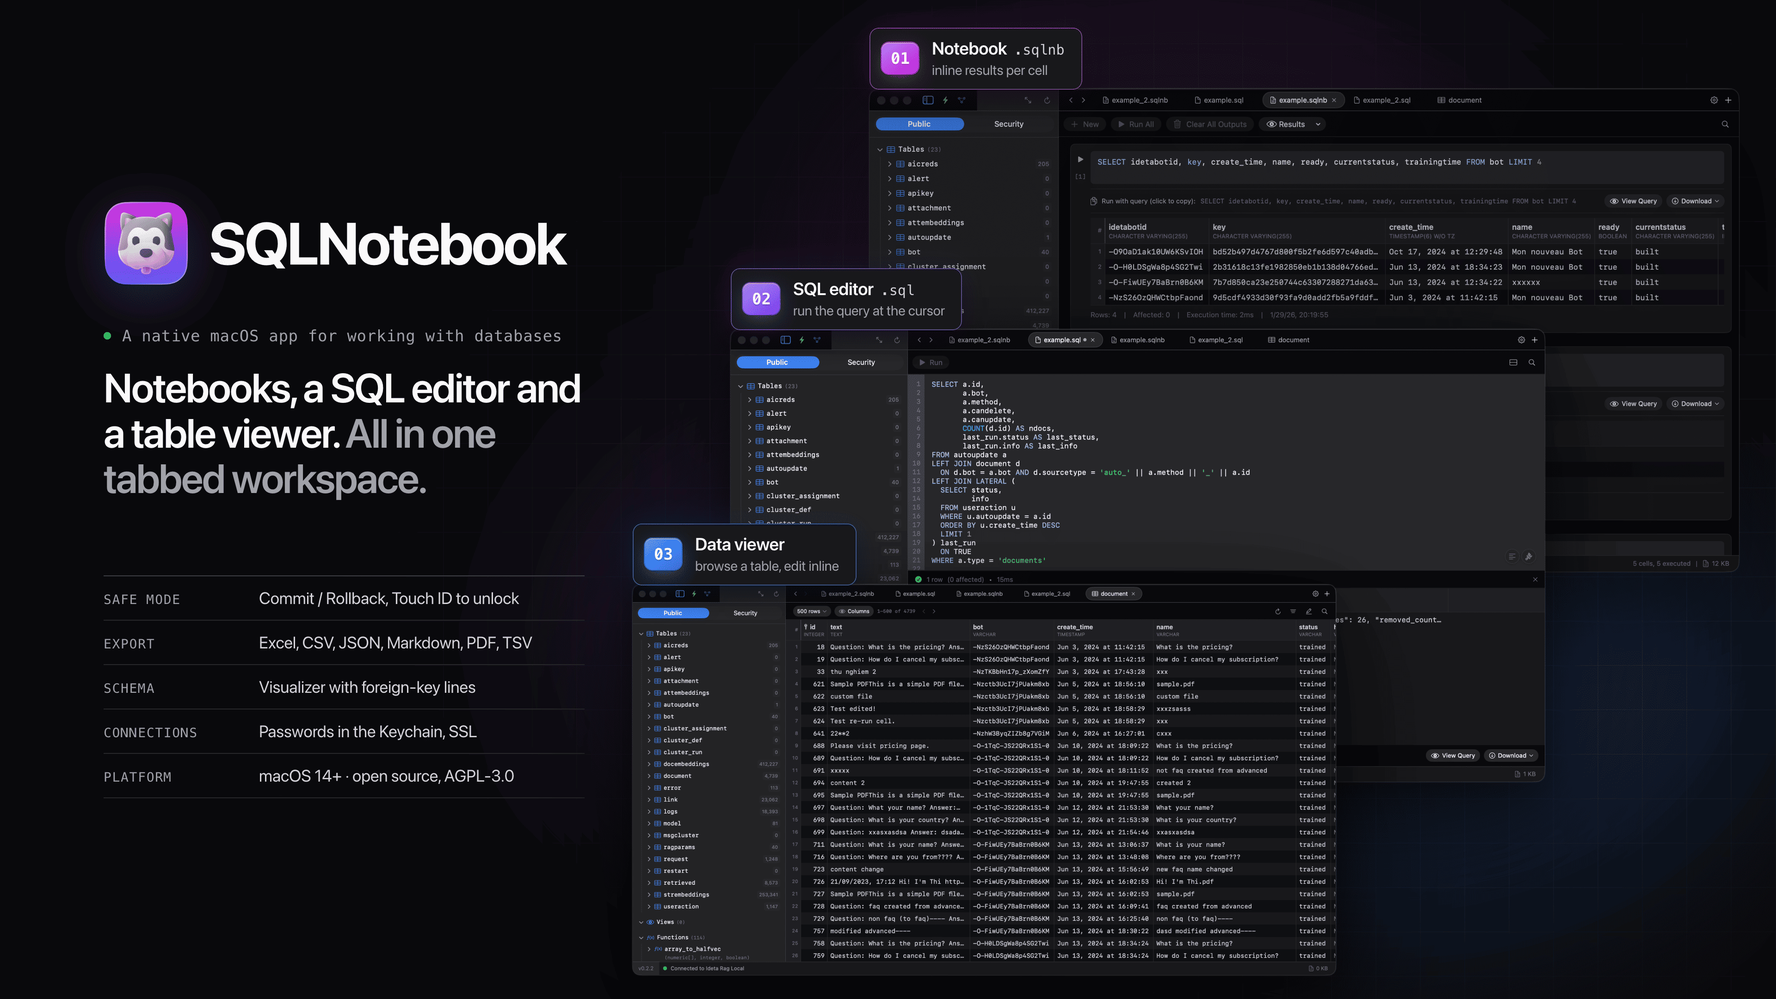
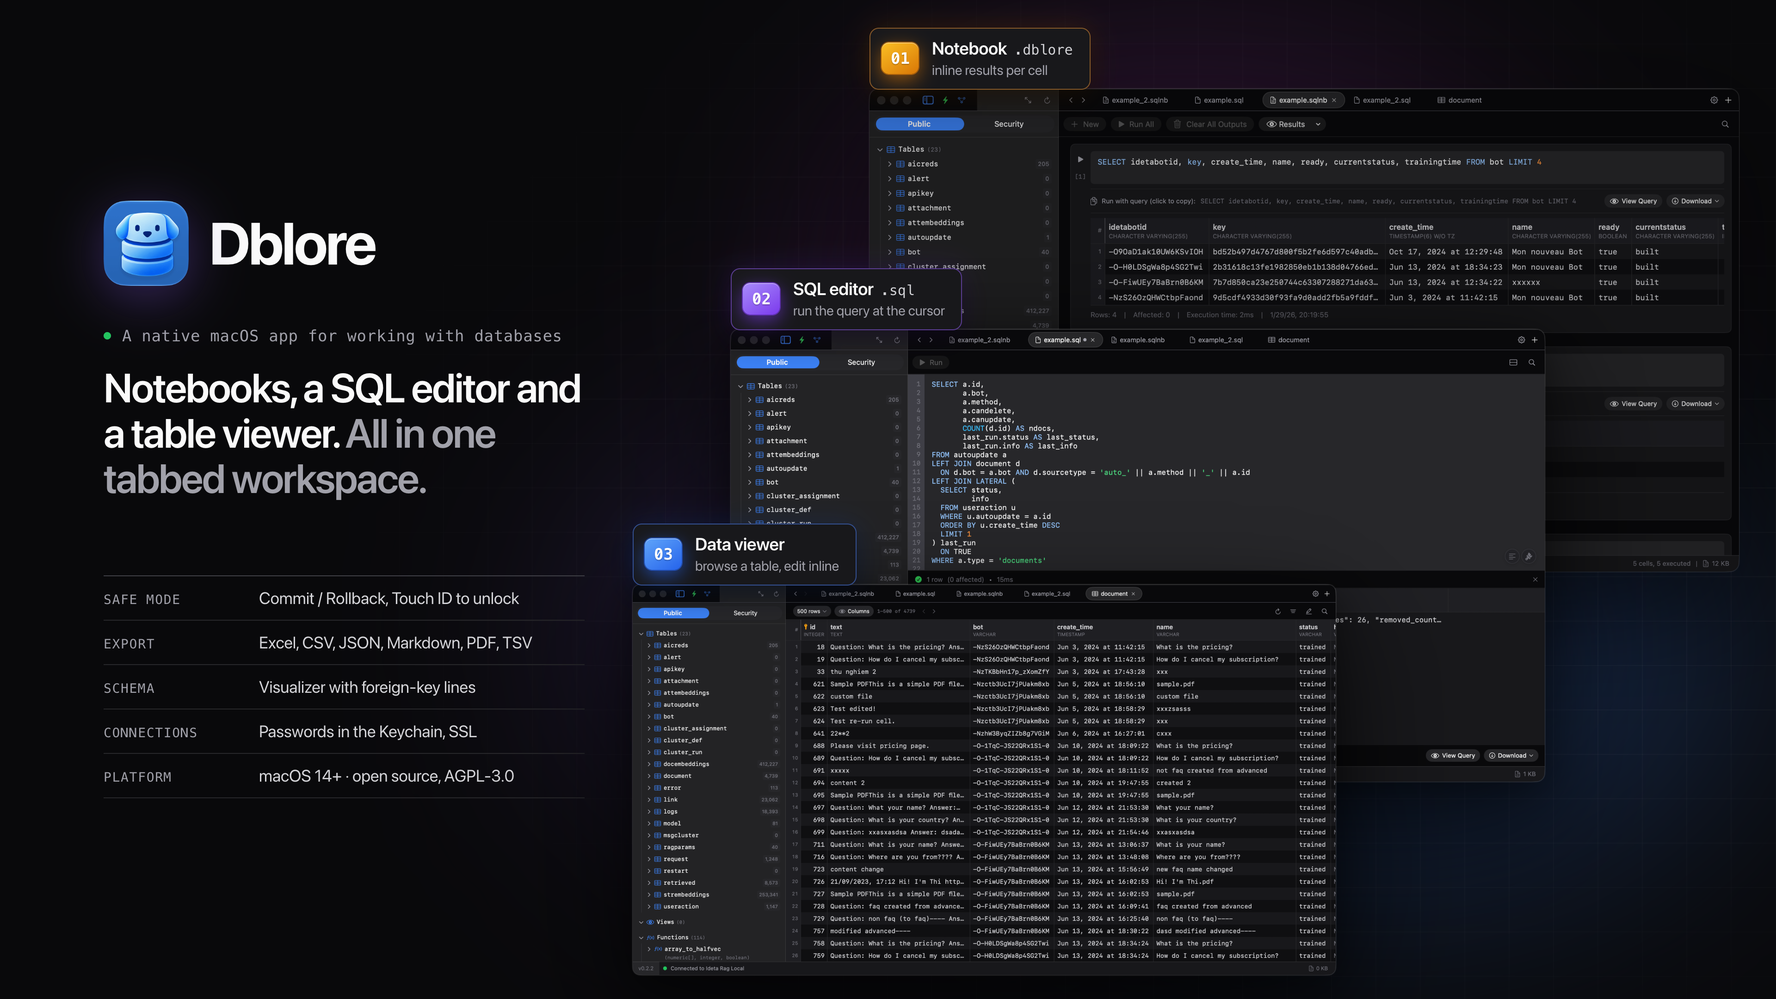
docs(rename): phase 3/3 rename docs and appcast to Dblore

diff --git a/.coding-friend/skills/cf-ship-custom/SKILL.md b/.coding-friend/skills/cf-ship-custom/SKILL.md
@@ -1,10 +1,10 @@
 ## Before
 
-This is a **version bump + changelog + tag** operation for SQLNotebook, the macOS app. Run these steps BEFORE the standard cf-ship workflow.
+This is a **version bump + changelog + tag** operation for Dblore, the macOS app. Run these steps BEFORE the standard cf-ship workflow.
 
 **Args** (optional): `[patch|minor|major]`
 
-SQLNotebook ships stable releases only: tags are always `vX.Y.Z` = `MARKETING_VERSION`. A release has two outputs: the **next file version** (what `bump.sh` writes, or `unchanged`) and the **next tag**.
+Dblore ships stable releases only: tags are always `vX.Y.Z` = `MARKETING_VERSION`. A release has two outputs: the **next file version** (what `bump.sh` writes, or `unchanged`) and the **next tag**.
 
 | The user says                 | You run               | Latest tag -> file / tag                               |
 | ----------------------------- | --------------------- | ------------------------------------------------------ |
@@ -13,7 +13,7 @@ SQLNotebook ships stable releases only: tags are always `vX.Y.Z` = `MARKETING_VE
 
 `bump-info.sh` computes this for you under "Next version" as two lines, `Next file version` and `Next tag`. Read them and use them verbatim. Never compute a version by hand.
 
-SQLNotebook has **one** version, in one file: `MARKETING_VERSION` (and the build number `CURRENT_PROJECT_VERSION`) in `SQLNotebook.xcodeproj/project.pbxproj`, identical across every build configuration. Below, `<tag>` means the `Next tag` line (for example `v0.1.1`) and `<tag version>` the same string without the leading `v` (`0.1.1`).
+Dblore has **one** version, in one file: `MARKETING_VERSION` (and the build number `CURRENT_PROJECT_VERSION`) in `Dblore.xcodeproj/project.pbxproj`, identical across every build configuration. Below, `<tag>` means the `Next tag` line (for example `v0.1.1`) and `<tag version>` the same string without the leading `v` (`0.1.1`).
 
 ### Step B1: Get bump context
 
@@ -49,8 +49,8 @@ Only in State `bump`. An explicit level from the user wins. Otherwise decide fro
 Commits under "Excluded" (touching no bump-relevant path: `docs/`, `.github/`, `.coding-friend/`, root `*.md`, root `appcast.xml`, ...; this includes CI's `chore(release): appcast vX.Y.Z` commits) and under "Excluded by scope" (`(website)` / `(landing)` / `(docs)`) never count. For "Excluded by scope", judge each: count it only if it is genuinely an app change that was mis-scoped.
 
 - **PATCH** (x.y.Z), the default, and almost always the answer. Bug fixes, UX polish, performance, refinements of existing behaviour, **and ordinary new features**: a new setting or toggle, a new menu item or shortcut, a new export format, a new option on an existing dialog, a new column in the results grid, an improvement to an existing panel. Several such features in one release are still PATCH.
-- **MINOR** (x.Y.0) only for a **milestone**: a whole new area of the app that changes what SQLNotebook is for, such as support for a new database engine, a new kind of document or tab, or a new workspace-level tool on the scale of the schema visualizer. A single feature, however useful, is not a milestone. If you have to argue for MINOR, it is PATCH.
-- **MAJOR** (X.0.0) only for a change that breaks compatibility of `.sqlnb` notebook files or saved connection/config data users depend on. While the app is pre-1.0, MAJOR is reserved: use MINOR instead.
+- **MINOR** (x.Y.0) only for a **milestone**: a whole new area of the app that changes what Dblore is for, such as support for a new database engine, a new kind of document or tab, or a new workspace-level tool on the scale of the schema visualizer. A single feature, however useful, is not a milestone. If you have to argue for MINOR, it is PATCH.
+- **MAJOR** (X.0.0) only for a change that breaks compatibility of `.dblore` notebook files or saved connection/config data users depend on. While the app is pre-1.0, MAJOR is reserved: use MINOR instead.
 
 When in doubt, choose PATCH. Never pick MINOR two releases in a row on your own judgement: if the latest tag was itself a minor bump (`X.Y.0`), this one is PATCH unless the user asked for `minor`.
 
@@ -64,7 +64,7 @@ Only when `Next file version` is a version, i.e. only in State `bump`. When it s
 bash .coding-friend/skills/cf-ship-custom/scripts/bump.sh <Next file version>
 ```
 
-It rewrites `SQLNotebook.xcodeproj/project.pbxproj` only: `MARKETING_VERSION` -> `<Next file version>` and `CURRENT_PROJECT_VERSION` -> max + 1 in every build configuration, then verifies they agree. It accepts only `X.Y.Z`: never pass the tag.
+It rewrites `Dblore.xcodeproj/project.pbxproj` only: `MARKETING_VERSION` -> `<Next file version>` and `CURRENT_PROJECT_VERSION` -> max + 1 in every build configuration, then verifies they agree. It accepts only `X.Y.Z`: never pass the tag.
 
 ### Step B4: Update `CHANGELOG.md`
 
@@ -94,10 +94,10 @@ Run all of these. Do not commit without them.
 
 ```bash
 # BUILD
-xcodebuild build -scheme SQLNotebook -destination 'platform=macOS,arch=arm64' -derivedDataPath .build
+xcodebuild build -scheme Dblore -destination 'platform=macOS,arch=arm64' -derivedDataPath .build
 
 # UT
-SKIP_INTEGRATION_TESTS=true xcodebuild test -scheme SQLNotebook -destination 'platform=macOS,arch=arm64' -derivedDataPath .build -enableCodeCoverage NO
+SKIP_INTEGRATION_TESTS=true xcodebuild test -scheme Dblore -destination 'platform=macOS,arch=arm64' -derivedDataPath .build -enableCodeCoverage NO
 ```
 
 Format check. Lint (non-modifying) only the Swift files changed since the start of the commit range; never run `swift-format -i` or `-r` on whole folders here. `<range tag>` is the tag in the bump-info `Commit range` line:
@@ -122,10 +122,10 @@ fi
 Integration tests, only when the test DB container is up:
 
 ```bash
-docker ps --format '{{.Names}}' | grep -qx sqlnotebook-postgres-test && echo "test DB up"
+docker ps --format '{{.Names}}' | grep -qx dblore-postgres-test && echo "test DB up"
 
 # IT
-TEST_RUNNER_TEST_DB_PORT=5435 TEST_RUNNER_TEST_DB_NAME=sqlnotebook_test TEST_RUNNER_TEST_DB_USER=sqlnotebook_test TEST_RUNNER_TEST_DB_PASSWORD=sqlnotebook123 SKIP_UI_TESTS=true xcodebuild test -scheme SQLNotebook -destination 'platform=macOS,arch=arm64' -derivedDataPath .build -enableCodeCoverage NO
+TEST_RUNNER_TEST_DB_PORT=5435 TEST_RUNNER_TEST_DB_NAME=dblore_test TEST_RUNNER_TEST_DB_USER=dblore_test TEST_RUNNER_TEST_DB_PASSWORD=dblore123 SKIP_UI_TESTS=true xcodebuild test -scheme Dblore -destination 'platform=macOS,arch=arm64' -derivedDataPath .build -enableCodeCoverage NO
 ```
 
 If the container is not running, skip IT and say so in the report. Do not start it.
@@ -135,8 +135,8 @@ If the container is not running, skip IT and say so in the report. Do not start 
 **Build number must increase.** Sparkle offers an update only when the new `sparkle:version` (= `CFBundleVersion` = `CURRENT_PROJECT_VERSION`) is strictly greater than the installed one. Run this in every State, from the repo root:
 
 ```bash
-build="$(grep -E '^[[:space:]]*CURRENT_PROJECT_VERSION = ' SQLNotebook.xcodeproj/project.pbxproj | sed -E 's/.*= *"?([0-9]+)"?;.*/\1/' | sort -n | tail -1)"
-feed="$(curl -fsSL https://dinhanhthi.github.io/SQLNotebook/appcast.xml 2>/dev/null || true)"
+build="$(grep -E '^[[:space:]]*CURRENT_PROJECT_VERSION = ' Dblore.xcodeproj/project.pbxproj | sed -E 's/.*= *"?([0-9]+)"?;.*/\1/' | sort -n | tail -1)"
+feed="$(curl -fsSL https://dinhanhthi.github.io/Dblore/appcast.xml 2>/dev/null || true)"
 last="$(printf '%s' "$feed" | grep -oE '<sparkle:version>[0-9]+</sparkle:version>' | grep -oE '[0-9]+' | sort -n | tail -1)"
 if [[ -z "$last" ]]; then echo "no published build yet: no constraint"; elif (( build > last )); then echo "ok: build $build > $last"; else echo "STOP: build $build must be > $last"; fi
 ```
@@ -146,13 +146,13 @@ An empty feed or a 404 (before the first Sparkle release) means no constraint. I
 **Release pre-flight (GitHub side).** Before committing, check that CI can publish an update users can actually download. Read-only; never print secret values:
 
 ```bash
-v="$(gh api repos/dinhanhthi/SQLNotebook --jq .visibility 2>/dev/null)" || v=""
+v="$(gh api repos/dinhanhthi/Dblore --jq .visibility 2>/dev/null)" || v=""
 [[ "$v" == public ]] && echo "visibility: public" || echo "STOP: repo visibility is '${v:-unknown}', must be public"
 
-gh secret list -R dinhanhthi/SQLNotebook --json name --jq '.[].name' | grep -qx SPARKLE_PRIVATE_KEY \
+gh secret list -R dinhanhthi/Dblore --json name --jq '.[].name' | grep -qx SPARKLE_PRIVATE_KEY \
   && echo "secret: SPARKLE_PRIVATE_KEY set" || echo "STOP: secret SPARKLE_PRIVATE_KEY missing"
 
-p="$(gh api repos/dinhanhthi/SQLNotebook/pages --jq .build_type 2>/dev/null)" || p=""
+p="$(gh api repos/dinhanhthi/Dblore/pages --jq .build_type 2>/dev/null)" || p=""
 [[ "$p" == workflow ]] && echo "pages: GitHub Actions" || echo "STOP: Pages source is '${p:-not configured}', must be GitHub Actions (workflow)"
 ```
 
@@ -167,7 +167,7 @@ On any `STOP`, report it with a pointer to `docs/release-setup.md` and do not co
 Stage only the release files, then commit on the **current branch**:
 
 ```bash
-git add SQLNotebook.xcodeproj/project.pbxproj CHANGELOG.md   # pbxproj only if B3 ran
+git add Dblore.xcodeproj/project.pbxproj CHANGELOG.md   # pbxproj only if B3 ran
 git commit -m "chore(release): bump to <tag version>"
 git push            # git push -u origin HEAD if the branch has no upstream
 ```
@@ -238,18 +238,18 @@ gh release view "<tag>" --json isPrerelease,isDraft,assets
 
 - `isPrerelease` must be `false`.
 - `isDraft` must be `false`.
-- `assets` must contain `SQLNotebook-<tag version>.dmg` and `SQLNotebook-<tag version>.dmg.sha256`.
+- `assets` must contain `Dblore-<tag version>.dmg` and `Dblore-<tag version>.dmg.sha256`.
 
 Download and check the DMG in a temp dir:
 
 ```bash
 tmp="$(mktemp -d)"
-gh release download "<tag>" -p 'SQLNotebook-*.dmg*' -D "$tmp"
-(cd "$tmp" && shasum -a 256 -c "SQLNotebook-<tag version>.dmg.sha256")
-hdiutil attach -nobrowse -readonly "$tmp/SQLNotebook-<tag version>.dmg"
-spctl -a -vv -t install "/Volumes/SQLNotebook/SQLNotebook.app"   # expect: accepted, source=Notarized Developer ID
-xcrun stapler validate "/Volumes/SQLNotebook/SQLNotebook.app"    # expect: The validate action worked!
-hdiutil detach "/Volumes/SQLNotebook"
+gh release download "<tag>" -p 'Dblore-*.dmg*' -D "$tmp"
+(cd "$tmp" && shasum -a 256 -c "Dblore-<tag version>.dmg.sha256")
+hdiutil attach -nobrowse -readonly "$tmp/Dblore-<tag version>.dmg"
+spctl -a -vv -t install "/Volumes/Dblore/Dblore.app"   # expect: accepted, source=Notarized Developer ID
+xcrun stapler validate "/Volumes/Dblore/Dblore.app"    # expect: The validate action worked!
+hdiutil detach "/Volumes/Dblore"
 ```
 
 Use the mount point `hdiutil attach` actually prints if it differs. Always detach, even when a check fails.
@@ -264,9 +264,9 @@ gh run watch <deploy-run-id> --exit-status --interval 30
 Then check the live feed:
 
 ```bash
-feed="$(curl -fsSL https://dinhanhthi.github.io/SQLNotebook/appcast.xml)"
+feed="$(curl -fsSL https://dinhanhthi.github.io/Dblore/appcast.xml)"
 printf '%s' "$feed" | grep -F "<sparkle:shortVersionString><tag version></sparkle:shortVersionString>"
-printf '%s' "$feed" | grep -F 'url="https://github.com/dinhanhthi/SQLNotebook/releases/download/v<tag version>/SQLNotebook-<tag version>.dmg"'
+printf '%s' "$feed" | grep -F 'url="https://github.com/dinhanhthi/Dblore/releases/download/v<tag version>/Dblore-<tag version>.dmg"'
 printf '%s' "$feed" | grep -F 'sparkle:edSignature='
 printf '%s' "$feed" | grep -oE '<sparkle:version>[0-9]+</sparkle:version>' | grep -oE '[0-9]+' | sort -n | tail -1   # the build <N> for B9 (highest = the new item)
 ```
@@ -284,10 +284,10 @@ git pull --ff-only
 
 ```
 Released:
-  SQLNotebook <tag> -> tag <tag> pushed -> release.yml -> notarized DMG + sha256
+  Dblore <tag> -> tag <tag> pushed -> release.yml -> notarized DMG + sha256
 
   Release: <gh release view <tag> --json url -q .url>
-  Appcast: live at https://dinhanhthi.github.io/SQLNotebook/appcast.xml (<tag version>, build <N>)
+  Appcast: live at https://dinhanhthi.github.io/Dblore/appcast.xml (<tag version>, build <N>)
 ```
 
 Take the URL from `gh`, do not hardcode it.

diff --git a/.coding-friend/skills/cf-ship-custom/README.md b/.coding-friend/skills/cf-ship-custom/README.md
@@ -1,6 +1,6 @@
-# `/cf-ship` for SQLNotebook: usage
+# `/cf-ship` for Dblore: usage
 
-How to release SQLNotebook. This file is for **you**; `SKILL.md` next to it is
+How to release Dblore. This file is for **you**; `SKILL.md` next to it is
 the contract the model follows (coding-friend applies its `## Before`,
 `## Rules` and `## After` sections on top of the standard `/cf-ship`).
 
@@ -12,14 +12,14 @@ the contract the model follows (coding-friend applies its `## Before`,
 
 `/cf-ship` reads the app commits since the last published tag, picks a version,
 writes `CHANGELOG.md`, bumps `MARKETING_VERSION` / `CURRENT_PROJECT_VERSION` in
-`SQLNotebook.xcodeproj/project.pbxproj` (only when the file version changes),
+`Dblore.xcodeproj/project.pbxproj` (only when the file version changes),
 runs build + tests + a lint of the changed Swift files, commits
 `chore(release): bump to <tag version>` on the current branch, pushes, tags
 `v<tag version>`, pushes the tag, then waits for CI and verifies the published
 DMG and the Sparkle appcast.
 
-SQLNotebook ships stable releases only: the tag is always `v` +
-`MARKETING_VERSION` (`X.Y.Z`), and the DMG is `SQLNotebook-<version>.dmg`.
+Dblore ships stable releases only: the tag is always `v` +
+`MARKETING_VERSION` (`X.Y.Z`), and the DMG is `Dblore-<version>.dmg`.
 
 ## Say it in one line
 
@@ -31,8 +31,8 @@ SQLNotebook ships stable releases only: the tag is always `v` +
 Auto level: PATCH almost always, including ordinary new features (a setting, a
 menu item, an export format). MINOR only for a milestone (a new database
 engine, a new kind of document or tab), never twice in a row unless you ask
-with `/cf-ship minor`. MAJOR only for breaking `.sqlnb` / config compatibility
-(reserved while pre-1.0, so MINOR instead). Only commits touching `SQLNotebook/`, `SQLNotebookTests/`, the Xcode
+with `/cf-ship minor`. MAJOR only for breaking `.dblore` / config compatibility
+(reserved while pre-1.0, so MINOR instead). Only commits touching `Dblore/`, `DbloreTests/`, the Xcode
 project, `scripts/` or `assets/` count; docs, CI and `.coding-friend/` changes
 never trigger a release.
 
@@ -50,7 +50,7 @@ Pushing a `vX.Y.Z` tag starts `.github/workflows/release.yml` on a `macos-26` ru
 4. Runs `scripts/build-release.sh --expect-version <tag version>`: checks the
    tag equals `MARKETING_VERSION`, then archive, export, sign, DMG,
    notarize, staple, Gatekeeper check.
-5. Publishes `SQLNotebook-<tag version>.dmg` and `.dmg.sha256`
+5. Publishes `Dblore-<tag version>.dmg` and `.dmg.sha256`
    on GitHub Releases as a normal (latest) release.
 6. Locates `generate_appcast` in the Sparkle SPM artifact the build resolved
    (checksum-verified by SPM, same version as the app).
@@ -60,7 +60,7 @@ Pushing a `vX.Y.Z` tag starts `.github/workflows/release.yml` on a `macos-26` ru
 8. Commits the new `appcast.xml` to `main` as `github-actions[bot]`
    (`chore(release): appcast v<tag version>`; never counts toward a bump).
 9. Dispatches `deploy-appcast.yml`, which publishes only `appcast.xml` to
-   <https://dinhanhthi.github.io/SQLNotebook/appcast.xml> (GitHub Pages).
+   <https://dinhanhthi.github.io/Dblore/appcast.xml> (GitHub Pages).
 10. Deletes the keychain, key files and the appcast work folder.
 
 ## Prerequisites
@@ -71,18 +71,18 @@ Pushing a `vX.Y.Z` tag starts `.github/workflows/release.yml` on a `macos-26` ru
   `SPARKLE_PRIVATE_KEY`). Check the names with `gh secret list`.
 - A **public** repo: Sparkle and users cannot download release assets from a
   private one. The skill stops unless
-  `gh api repos/dinhanhthi/SQLNotebook --jq .visibility` prints `public`.
+  `gh api repos/dinhanhthi/Dblore --jq .visibility` prints `public`.
 - GitHub Pages with Source = **GitHub Actions**
-  (`gh api repos/dinhanhthi/SQLNotebook/pages --jq .build_type` prints
+  (`gh api repos/dinhanhthi/Dblore/pages --jq .build_type` prints
   `workflow`). The skill stops otherwise.
 - For the local fallback appcast: the Sparkle EdDSA key in your login keychain
   under the account `sqlnotebook`.
 - For the local fallback only: the Developer ID certificate in your login
-  keychain and the `SQLNotebookNotary` notary profile
+  keychain and the `DbloreNotary` notary profile
   (`xcrun notarytool store-credentials ...`, see `docs/release-setup.md`).
 - A `CHANGELOG.md` at the repo root with a title and format note; the skill
   inserts each new version below it.
-- `gh` authenticated, and the test DB container `sqlnotebook-postgres-test` up
+- `gh` authenticated, and the test DB container `dblore-postgres-test` up
   if you want the integration suite to run before the release.
 
 ## Troubleshooting
@@ -132,8 +132,8 @@ again with a higher build number; never edit a published appcast item by hand.
 **Gatekeeper warns on the downloaded DMG.** Check it yourself:
 
 ```bash
-spctl -a -vv -t install "/Volumes/SQLNotebook/SQLNotebook.app"   # want: Notarized Developer ID
-xcrun stapler validate "/Volumes/SQLNotebook/SQLNotebook.app"
+spctl -a -vv -t install "/Volumes/Dblore/Dblore.app"   # want: Notarized Developer ID
+xcrun stapler validate "/Volumes/Dblore/Dblore.app"
 ```
 
 ## Testing the scripts without releasing anything
@@ -154,7 +154,7 @@ BUMP_INFO_TAG= BUMP_INFO_VERSION=0.1.1-rc.1 bash $B                 # error: fil
 BUMP_INFO_TAG=v0.1.0 BUMP_INFO_VERSION=0.1.0 bash $B --rc           # error: unknown argument
 
 # bump.sh on a copy of the project file
-cp SQLNotebook.xcodeproj/project.pbxproj /tmp/copy.pbxproj
+cp Dblore.xcodeproj/project.pbxproj /tmp/copy.pbxproj
 BUMP_PBXPROJ=/tmp/copy.pbxproj bash .coding-friend/skills/cf-ship-custom/scripts/bump.sh 0.2.0
 ```
 

diff --git a/README.md b/README.md
@@ -1,13 +1,14 @@
 <div align="center">
 
-<img src="assets/logo_256.png" alt="SQLNotebook" width="120" />
+<img src="assets/logo_256.png" alt="Dblore" width="120" />
 
-# SQLNotebook
+# Dblore
 
-A native macOS app for working with SQL: write and run queries in **notebooks** (like
-Jupyter, but for SQL) or in a classic **SQL editor**, against PostgreSQL.
+A native macOS app for working with databases: write and run queries in **notebooks**
+(like Jupyter, for your databases) or in a classic **SQL editor**. Supports PostgreSQL
+today; more engines (such as MongoDB) are planned.
 
-**[Download for macOS](https://github.com/dinhanhthi/SQLNotebook/releases/latest)**
+**[Download for macOS](https://github.com/dinhanhthi/Dblore/releases/latest)**
 &nbsp;·&nbsp; macOS 14+ &nbsp;·&nbsp; signed &amp; notarized
 
 </div>
@@ -16,7 +17,7 @@ Jupyter, but for SQL) or in a classic **SQL editor**, against PostgreSQL.
 
 ## Features
 
-- **Notebooks and editor tabs**: `.sqlnb` notebooks with inline results per cell, and
+- **Notebooks and editor tabs**: `.dblore` notebooks with inline results per cell, and
   standalone `.sql` files, in a multi-tab, multi-window workspace
 - **Query execution**: run a cell, the query at the cursor, or all cells; cancel running
   queries; row count and execution time per result
@@ -39,9 +40,9 @@ Jupyter, but for SQL) or in a classic **SQL editor**, against PostgreSQL.
 ## Install
 
 - **Download the app:** get the latest signed &amp; notarized DMG from the
-  [Releases page](https://github.com/dinhanhthi/SQLNotebook/releases/latest), open it and
-  drag SQLNotebook to Applications. From v0.2.0 on, it updates itself
-  (**SQLNotebook > Check for Updates…**).
+  [Releases page](https://github.com/dinhanhthi/Dblore/releases/latest), open it and
+  drag Dblore to Applications. From v0.2.0 on, it updates itself
+  (**Dblore > Check for Updates…**).
 - **Or build from source:** see below.
 
 ## Requirements
@@ -53,16 +54,16 @@ Jupyter, but for SQL) or in a classic **SQL editor**, against PostgreSQL.
 ## Build from source
 
 ```sh
-git clone https://github.com/dinhanhthi/SQLNotebook.git
-cd SQLNotebook
-open SQLNotebook.xcodeproj      # press Run
+git clone https://github.com/dinhanhthi/Dblore.git
+cd Dblore
+open Dblore.xcodeproj      # press Run
 ```
 
 Headless build / test:
 
 ```sh
-xcodebuild build -scheme SQLNotebook -destination 'platform=macOS,arch=arm64'
-SKIP_INTEGRATION_TESTS=true xcodebuild test -scheme SQLNotebook \
+xcodebuild build -scheme Dblore -destination 'platform=macOS,arch=arm64'
+SKIP_INTEGRATION_TESTS=true xcodebuild test -scheme Dblore \
   -destination 'platform=macOS,arch=arm64' -enableCodeCoverage NO
 ```
 
@@ -74,7 +75,7 @@ finish.
 [`docker/`](docker/README.md) has ready-made PostgreSQL containers:
 
 - a development database with sample data, on port `5433`
-  (`postgresql://sqlnotebook:sqlnotebook123@localhost:5433/sqlnotebook`);
+  (`postgresql://dblore:dblore123@localhost:5433/dblore`);
 - a separate database for the integration tests, on port `5435`.
 
 ```sh
@@ -92,7 +93,7 @@ See **[CONTRIBUTING.md](CONTRIBUTING.md)** for guidelines.
 
 Copyright (C) 2025-2026 Anh-Thi Dinh.
 
-SQLNotebook is open source under the
+Dblore is open source under the
 [GNU Affero General Public License v3.0](https://www.gnu.org/licenses/agpl-3.0.html).
 You may use, modify, and distribute it under its terms. See [LICENSE](LICENSE) for the
 full license text.

diff --git a/CONTRIBUTING.md b/CONTRIBUTING.md
@@ -1,4 +1,4 @@
-# Contributing to SQLNotebook
+# Contributing to Dblore
 
 Thanks for your interest — contributions are welcome!
 
@@ -9,7 +9,7 @@ Thanks for your interest — contributions are welcome!
   1. Build from source (Xcode 27+ on macOS 26+; the app itself runs on macOS 14+) and make sure the unit tests pass:
 
      ```bash
-     SKIP_INTEGRATION_TESTS=true xcodebuild test -scheme SQLNotebook \
+     SKIP_INTEGRATION_TESTS=true xcodebuild test -scheme Dblore \
        -destination 'platform=macOS,arch=arm64' -enableCodeCoverage NO
      ```
 
@@ -22,7 +22,7 @@ Thanks for your interest — contributions are welcome!
 
 ## License
 
-SQLNotebook is open source under the **GNU Affero General Public License v3.0**. By
+Dblore is open source under the **GNU Affero General Public License v3.0**. By
 submitting a contribution, you agree that it is licensed under the same terms. You
 confirm that the contribution is your own original work, or that you are authorized to
 submit it.

diff --git a/CHANGELOG.md b/CHANGELOG.md
@@ -1,6 +1,6 @@
 # Changelog
 
-All notable user-visible changes to SQLNotebook, newest first. Each release is a section headed `## vX.Y.Z (YYYY-MM-DD)` with `### Added`, `### Improved` and `### Fixed` subsections (empty ones omitted); every entry ends with links to its commits. Sections are written by `/cf-ship`, and the release workflow publishes the matching section as the GitHub Release notes.
+All notable user-visible changes to Dblore, newest first. Each release is a section headed `## vX.Y.Z (YYYY-MM-DD)` with `### Added`, `### Improved` and `### Fixed` subsections (empty ones omitted); every entry ends with links to its commits. Sections are written by `/cf-ship`, and the release workflow publishes the matching section as the GitHub Release notes.
 
 ## v0.3.1 (2026-09-29)
 
